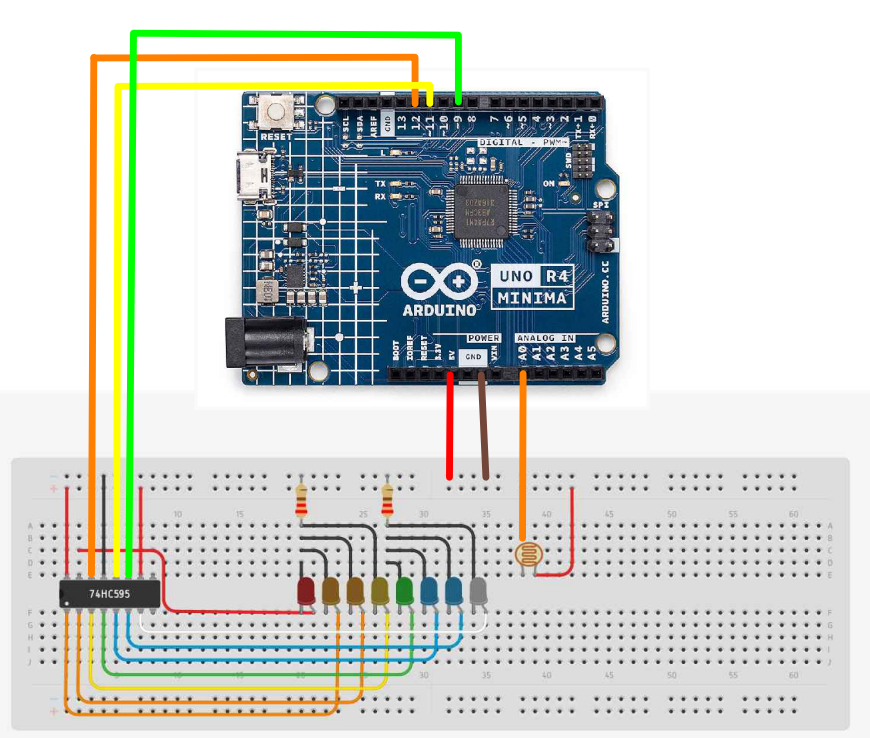
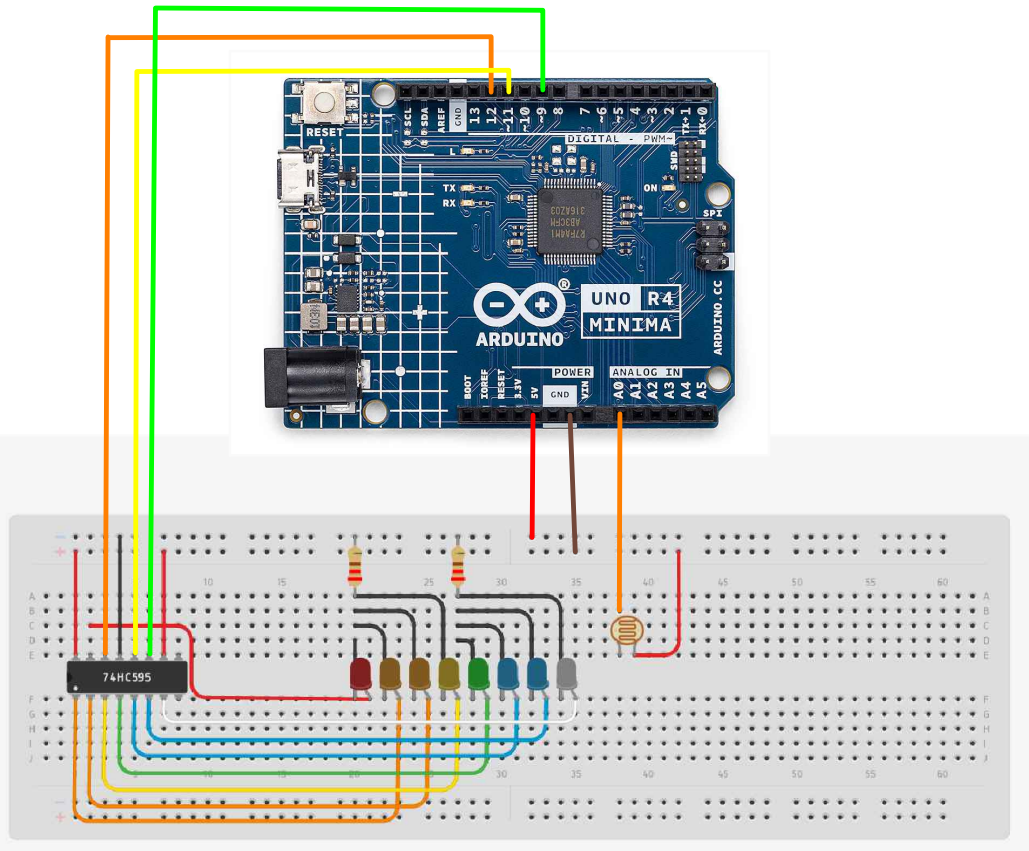
chore: Update UNO-R4 Starter Kit tutorials with new shift register and LED images

Changed region(s): [[0.0, 0.0, 0.9931, 0.9973]]

diff --git a/docs/UNO-R4-Starter-Kit/Shift-Registers-and-LED.md b/docs/UNO-R4-Starter-Kit/Shift-Registers-and-LED.md
@@ -10,9 +10,10 @@ description
 | Breadboard                                  | <img src="/img/docs/UNO-R4-Starter-Kit/breadboard.webp" width="200" height="150" />       |
 | Jumper wires                                | <img src="/img/docs/UNO-R4-Starter-Kit/jumper-wires.webp" width="200" height="150" />       |
 | Arduino Uno R4 Minima                       | <img src="/img/docs/UNO-R4-Starter-Kit/arduino-r4-minima.webp" width="190" height="150" />               |
+| 74HC595 Shift Register                      | <img src="/img/docs/UNO-R4-Starter-Kit/74HC595.png" width="190" height="150" />                   |
+| LEDS (white, red, blue, or green)            | <img src="/img/docs/UNO-R4-Starter-Kit/LED.jpg" width="150" height="100" />                    |
 
 ## Instructions
-
 1. Make the following connections using the breadboard and jumper wires.
 #### Power Connections
 - Pin 16 of the 74HC595 to 5V.
@@ -36,6 +37,7 @@ description
 - Connect Pin 7 (Q7) to the anode of the eighth LED.
 - Connect the cathode of each LED to one end of a 220 ohm resistor.
 - Connect the other end of each resistor to the GND rail on the breadboard.
+<img src="/img/docs/UNO-R4-Starter-Kit/shift-registers-and-LEDs.png" width="500" height="480" />
 
 2. Paste the following code into your main Arduino sketch:
 ```cpp

diff --git a/docs/UNO-R4-Starter-Kit/Serial-Monitor.md b/docs/UNO-R4-Starter-Kit/Serial-Monitor.md
@@ -31,6 +31,8 @@ Shift registers are versatile components that allow you to control multiple outp
 - Connect the positive legs of the LEDs to the output pins Q0 to Q7 of the 74HC595.
 - Connect the negative legs of the LEDs to ground through the current-limiting resistors.
 
+<img src="/img/docs/UNO-R4-Starter-Kit/shift-registers-and-LEDs.png" width="500" height="480" />
+
 2. Paste the following code into your main Arduino sketch:
 ```cpp
 int latchPin = 11;
